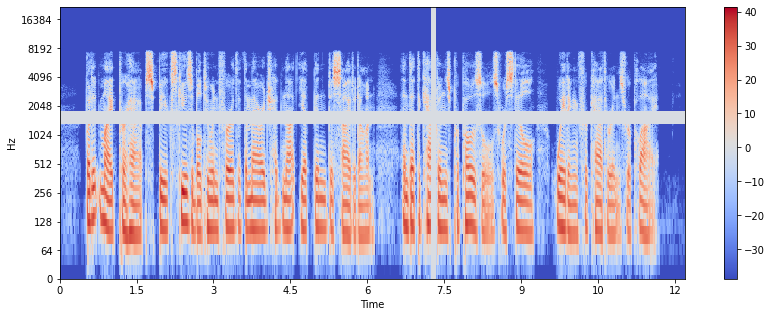
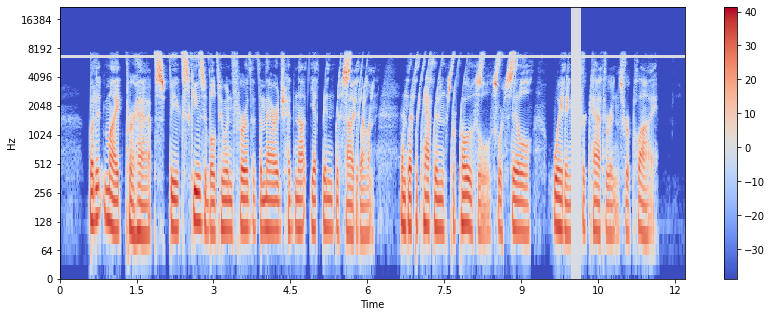
testing augmentations

diff --git a/Programming Assignments/Speech Recognition/test_phase1.py b/Programming Assignments/Speech Recognition/test_phase1.py
@@ -25,7 +25,7 @@ if args.audio_file_path:
     print("Spectrogram of shape:", spect.shape)
     aug.show_spectrogram(spect)
     augspect, _ = specAugment([spect], ["No"])
-    augspect = augspect[0]
+    augspect = augspect[1]
     print("Augmented spectrogram of shape:", augspect.shape)
     aug.show_spectrogram(augspect.numpy())
 
